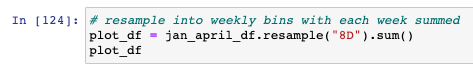
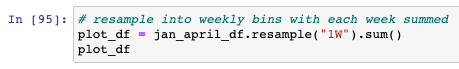
fixed resample & MG fig

diff --git a/README.md b/README.md
@@ -55,7 +55,7 @@ Analysis of ride-sharing data revealed clear stratification in total rides, tota
 
 ### Overcoming Challenges & Technical Analyses Used
 #### Programming
-- Internet searches of official documentation, Stack Overflow, and forums were performed to find examples of what code was used and how it was applied, followed by trial and error in Jupyter Notebook. Pandas API reference for [pandas.DataFrame.resample](https://pandas.pydata.org/pandas-docs/stable/reference/api/pandas.DataFrame.resample.html) showed how to used '3T' to split a series into 3 minute bins (Figure 2). For this analysis, I trialed '8D' with unexpected success (Figure 3).  
+- Internet searches of official documentation, Stack Overflow, and forums were performed to find examples of what code was used and how it was applied, followed by trial and error in Jupyter Notebook. Pandas API reference for [pandas.DataFrame.resample](https://pandas.pydata.org/pandas-docs/stable/reference/api/pandas.DataFrame.resample.html) showed how to used '3T' to split a series into 3 minute bins (Figure 2). For this analysis, I trialed '1W' with unexpected success (Figure 3).  
 
 Figure 2. Pandas API Reference
 
